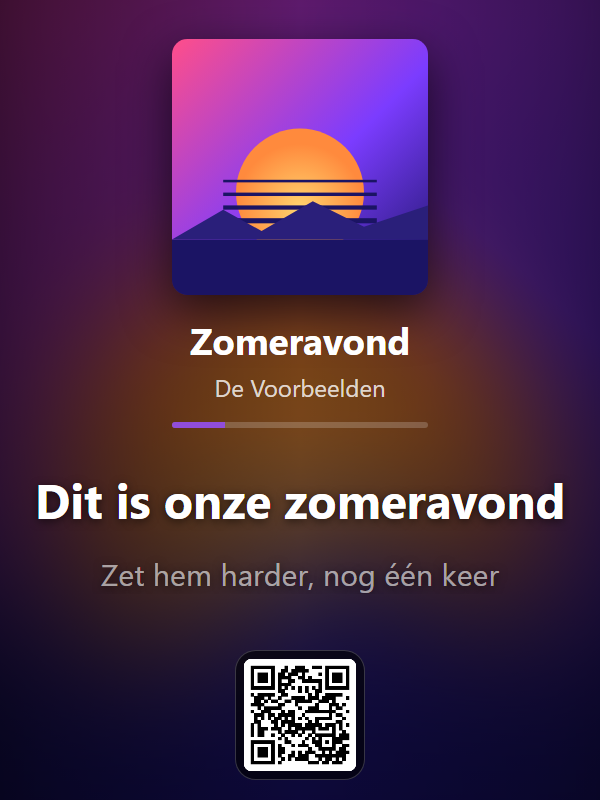
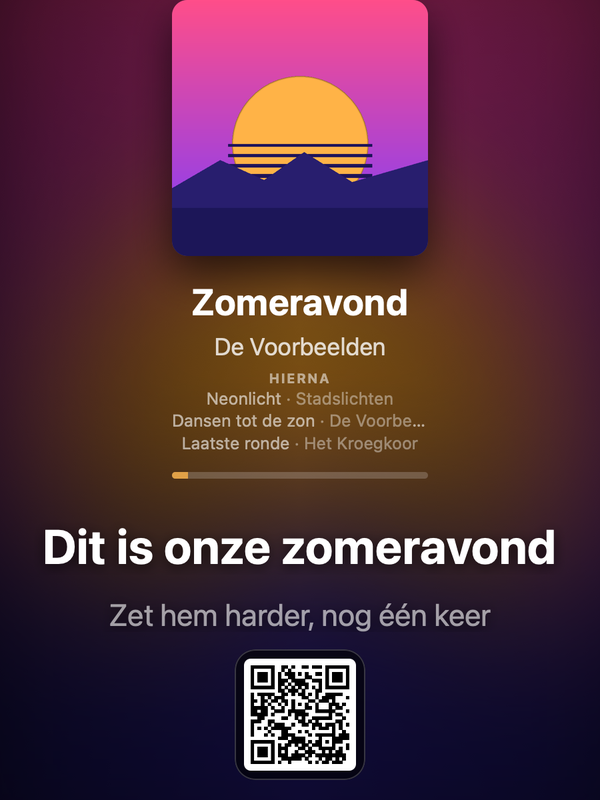
README: new screenshots and diagrams for 2.7.x
- web-wide / web-wide-explained: the screen as it is now, with "Hierna" and
  the Jam card; the explanation has four numbers (song, lyrics, up next, QR).
- hub-dashboard.png (new): screens, music, Jam and the party block.
- party-games.png (new): the quiz on the screen, the answer with the top 5 and
  the guest page on a phone.
- web-settings.png replaces web-settings-steps.png (Spotify is linked at the
  Hub now, not on the screen).
- web-card.png: the narrow Home Assistant card.
- overview.svg: one Hub in the middle instead of three separate sources.
- tv-install.svg: step 5 is "connect to the Hub", not pasting a Jam link.

Screenshots are the real screen and dashboard with a fictional song and an
example network address. The GitBook and website jpg copies are updated too.
README text: Mac app next to Windows, links to the newest release.

diff --git a/README.md b/README.md
@@ -50,13 +50,14 @@ Voor je **Android TV**, je **PC**, een **Raspberry Pi** en je **Home Assistant**
 
 ## ✨ Wat het doet
 
-<img src="docs/images/web-wide-explained.png" alt="Uitleg van het scherm: 1 wat er speelt, 2 de songtekst, 3 de QR-code" width="860">
+<img src="docs/images/web-wide-explained.png" alt="Uitleg van het scherm: 1 wat er speelt, 2 de songtekst, 3 de komende nummers, 4 de QR-code" width="860">
 
 | | |
 |---|---|
-| **1. Wat er speelt** | De hoes, titel, artiest en voortgang. De hoes ligt wazig over de hele achtergrond en de balk krijgt de kleur van de hoes. Staat de muziek op pauze, dan wordt het nummer gedimd. Daaronder de **komende 1, 3 of 5 nummers** uit de wachtrij van je Spotify-account. |
+| **1. Wat er speelt** | De hoes, titel, artiest en voortgang. De hoes ligt wazig over de hele achtergrond en de balk krijgt de kleur van de hoes. Staat de muziek op pauze, dan wordt het nummer gedimd. |
 | **2. Songtekst** | De regel die gezongen wordt staat groot in het midden en loopt in de maat mee. De teksten komen van [lrclib.net](https://lrclib.net): gratis en zonder account. |
-| **3. QR-code** | Vrienden scannen de code met hun camera en zetten hun eigen nummers in de Jam-wachtrij. Staan de feestspellen aan, dan leidt de code naar de **gastenpagina**: Jam, 👎 Skip-stemmen en 🎤 Raad het nummer in één. |
+| **3. Hierna** | De **komende 1, 3 of 5 nummers** uit de wachtrij van je Spotify-account; hoeveel kies je in het Hub-dashboard. |
+| **4. QR-code** | Vrienden scannen de code met hun camera en zetten hun eigen nummers in de Jam-wachtrij. Staan de feestspellen aan, dan leidt de code naar de **gastenpagina**: Jam, 👎 Skip-stemmen en 🎤 Raad het nummer in één. |
 
 Daarnaast zet je vanuit het **Hub-dashboard** meldingen, een pauze-aftelklok en een QR-code voor je gasten-wifi op
 al je schermen tegelijk.
@@ -80,24 +81,24 @@ Alle versies en downloads vind je bij [Releases](../../releases).
 
 ## 🧭 Hoe het in elkaar zit
 
-<img src="docs/images/overview.svg" alt="Drie bronnen (Android TV, PC, Home Assistant) leveren hetzelfde scherm" width="860">
+<img src="docs/images/overview.svg" alt="De Hub in het midden: hij leest je Spotify-account en stuurt alle schermen aan (Android TV, PC, Raspberry Pi, Home Assistant); jij bedient hem via het dashboard, gasten via de gastenpagina" width="860">
 
 De **Hub** is het hart: een klein programma op je PC of Raspberry Pi met een admin-dashboard op poort **8770**. Daar
 koppel je één keer je Spotify-account en je Jam-link, en alle schermen in huis volgen dat.
 
-| | 💻 PC (Windows) | 🍓 Raspberry Pi | 📺 Android TV | 🏠 Home Assistant |
+| | 💻 PC (Windows of Mac) | 🍓 Raspberry Pi | 📺 Android TV | 🏠 Home Assistant |
 |---|---|---|---|---|
 | **Rol** | Scherm **en** Hub | Scherm en/of Hub | Scherm | Scherm (kaart) |
 | **Toont** | Je Spotify-account, via de Hub | Je Spotify-account, via de Hub | Wat er op de tv speelt, of het account van de Hub | Elke `media_player`, of het account van de Hub |
-| **Nodig** | `SpotiParty-Setup-2.7.0.exe` | Raspberry Pi OS (64-bit) met desktop | ADB en een PC om te bouwen | Home Assistant, liefst met HACS |
-| **Updates** | Vanzelf (vanaf 2.7.0) | `sudo ./pi/install.sh` opnieuw | Opnieuw bouwen en installeren | Via HACS |
+| **Nodig** | `SpotiParty-Setup-<versie>.exe`, of de `.dmg` op een Mac met Apple silicon | Raspberry Pi OS (64-bit) met desktop | ADB en een PC om te bouwen | Home Assistant, liefst met HACS |
+| **Updates** | Vanzelf (Windows vanaf 2.7.0, Mac vanaf 2.7.1) | `sudo ./pi/install.sh` opnieuw | Opnieuw bouwen en installeren | Via HACS |
 | **Tijd** | ± 5 min | ± 10 min | ± 20 min | ± 5 min |
 
 ---
 
 ## 🚀 Snel aan de slag
 
-1. **Installeer de Hub.** Het makkelijkst met de Windows-app (zie [Webapp op de PC](#-webapp-op-de-pc)) of op een
+1. **Installeer de Hub.** Het makkelijkst met de Windows- of Mac-app (zie [Webapp op de PC](#-webapp-op-de-pc)) of op een
    [Raspberry Pi](#-raspberry-pi). Het venster toont het adres van het dashboard en de **PIN**.
 2. **Open het dashboard** op `http://<adres-van-die-pc>:8770`, ook op je telefoon, en vul de PIN in.
 3. **Koppel Spotify** bij **🎵 Muziek bedienen** (zie [Spotify koppelen aan de Hub](#-spotify-koppelen-aan-de-hub)).
@@ -111,6 +112,8 @@ koppel je één keer je Spotify-account en je Jam-link, en alle schermen in huis
 
 De desktop-app en de Raspberry Pi starten de Hub vanzelf. Open daarna `http://<adres-van-die-computer>:8770` en vul de
 PIN in. Er draait één Hub per netwerk: start je de app op een tweede pc, dan wordt die een scherm van de eerste Hub.
+
+<img src="docs/images/hub-dashboard.png" alt="Het Hub-dashboard: vier schermen online, Muziek bedienen, de Jam-link met QR-code en het Feest-blok met Skip-stemmen en Raad het nummer" width="860">
 
 | Onderdeel in het dashboard | Wat het doet |
 |---|---|
@@ -165,8 +168,10 @@ Spotify vraagt dit om te weten welke app je login gebruikt.
 
 ## 🎉 Feestspellen
 
-Alle drie stel je in bij **🎉 Feest** in het Hub-dashboard. Ze werken op de Windows-app, de Android TV-app, de
-Raspberry Pi en de Home Assistant-kaart.
+Alle drie stel je in bij **🎉 Feest** in het Hub-dashboard. Ze werken op de Windows- en Mac-app, de Android TV-app,
+de Raspberry Pi en de Home Assistant-kaart.
+
+<img src="docs/images/party-games.png" alt="Raad het nummer: op het scherm een aftelklok en 2 van 3 Skip-stemmen, daarna het antwoord met de top 5; op de telefoon de gastenpagina met Jam, Skip en het raadvak" width="860">
 
 | | |
 |---|---|
@@ -187,11 +192,11 @@ of de quiz aan, dan leidt de QR-code op de schermen daarheen.
 
 ### Windows-app (aanbevolen)
 
-Download bij de nieuwste [**Release (2.7.0)**](../../releases/latest):
+Download bij de nieuwste [**Release (2.7.1)**](../../releases/latest):
 
 | Bestand | Installeren |
 |---|---|
-| [`SpotiParty-Setup-2.7.0.exe`](../../releases/download/v2.7.0/SpotiParty-Setup-2.7.0.exe) | Voor **Windows 10/11** (64-bit). Dubbelklik en volg de stappen. SpotiParty komt in het Startmenu en, als je dat aanvinkt, op je bureaublad. Er zijn geen beheerdersrechten nodig. Verwijderen gaat via **Instellingen → Apps**. |
+| [`SpotiParty-Setup-2.7.1.exe`](../../releases/download/v2.7.1/SpotiParty-Setup-2.7.1.exe) | Voor **Windows 10/11** (64-bit). Dubbelklik en volg de stappen. SpotiParty komt in het Startmenu en, als je dat aanvinkt, op je bureaublad. Er zijn geen beheerdersrechten nodig. Verwijderen gaat via **Instellingen → Apps**. |
 
 SpotiParty opent het feestscherm in een eigen venster, zonder tabbladen, en start de Hub. Er verschijnt ook een klein
 venster met het adres en de **PIN** van het dashboard, en de knoppen **Scherm openen**, **Dashboard** en **Stoppen**.
@@ -203,7 +208,7 @@ Sluit je dat kleine venster, dan stopt SpotiParty.
 
 **Updaten gaat vanzelf** (vanaf 2.7.0). Staat er een nieuwe versie klaar, dan zie je dat in het SpotiParty-venster.
 De update wordt geïnstalleerd bij de volgende start, of meteen met **Nu bijwerken**; de schermen stoppen dan even.
-Van 2.6.0 of ouder naar 2.7.0 moet je één keer met de hand de nieuwe setup draaien.
+Kom je van 2.6.0 of ouder, draai dan één keer met de hand de nieuwe setup.
 
 ### Mac en Linux
 
@@ -231,7 +236,7 @@ netwerk kan erbij. Draait de Hub op een andere computer, vul dan het adres in bi
 
 ### Instellen
 
-<img src="docs/images/web-settings-steps.png" alt="Het instellingenscherm van SpotiParty" width="620">
+<img src="docs/images/web-settings.png" alt="Het instellingenscherm van een SpotiParty-scherm: Spotify via de Hub, de Jam-link en het adres van de Hub" width="420">
 
 Open de instellingen met **S**, of met de ⚙ die verschijnt zodra je de muis beweegt. Kies bij **Wat speelt er?**
 *Spotify via de Hub* of een *Home Assistant media player*. Spotify en de Jam-link stel je in het Hub-dashboard in;
@@ -273,7 +278,7 @@ Dit werkt op Android TV en Google TV met Android 8 of nieuwer, zoals Chromecast 
 TCL, Hisense en NVIDIA Shield. Je installeert twee apps: **SpotiParty** zelf en **Lyrics**, een hulpje zonder
 eigen scherm dat de songteksten opzoekt.
 
-<img src="docs/images/tv-install.svg" alt="Vijf stappen: debuggen aan, bouwen, installeren, toegang geven, Jam koppelen" width="860">
+<img src="docs/images/tv-install.svg" alt="Vijf stappen: debuggen aan, bouwen, installeren, toegang geven, openen en verbinden met de Hub" width="860">
 
 ### Stap 1: Debuggen aanzetten op de tv
 
@@ -384,7 +389,7 @@ kies type **Dashboard**, klik **Toevoegen** en daarna **Downloaden**.
 <details>
 <summary><b>Zonder HACS installeren</b></summary>
 
-1. Download [**`spotiparty-card.js`**](../../releases/download/v2.7.0/spotiparty-card.js) bij de
+1. Download [**`spotiparty-card.js`**](../../releases/latest/download/spotiparty-card.js) bij de
    [nieuwste release](../../releases/latest). Het is één bestand; het hele scherm zit erin.
 2. Zet het in **`/config/www/spotiparty/`**, met de add-on **File editor**, **Studio Code Server** of **Samba share**.
    Bestond de map `www` nog niet? Herstart Home Assistant dan één keer.
@@ -490,11 +495,12 @@ Stopt de Jam, dan werkt de oude link niet meer. Start dan een nieuwe Jam en plak
 | Spotify: *"geen toegang"* of *"forbidden"* | Zet het account onder **User Management** van je Spotify-app, en controleer of de eigenaar van de app (nog) Premium heeft. |
 | Tv en telefoon vinden de Hub niet | Windows: sta SpotiParty toe op **Privénetwerken** (Windows Defender Firewall). Op de tv: vul het adres van de Hub in via **Menu**. |
 | Gasten komen niet op de gastenpagina | Ze moeten op hetzelfde netwerk zitten als de Hub; een afgeschermd gasten-wifi blokkeert dat. |
-| De Windows-app werkt zich niet bij | Automatisch bijwerken kan pas vanaf 2.7.0. Kom je van 2.6.0 of ouder, installeer [`SpotiParty-Setup-2.7.0.exe`](../../releases/download/v2.7.0/SpotiParty-Setup-2.7.0.exe) dan één keer met de hand. |
+| De Windows-app werkt zich niet bij | Automatisch bijwerken kan pas vanaf 2.7.0. Kom je van 2.6.0 of ouder, installeer [`SpotiParty-Setup-2.7.1.exe`](../../releases/download/v2.7.1/SpotiParty-Setup-2.7.1.exe) dan één keer met de hand. |
+| De Mac-app werkt zich niet bij | Dat kan pas vanaf 2.7.1, en alleen als SpotiParty in **Apps** staat (niet vanaf de `.dmg` of uit Downloads). Sleep [`SpotiParty-macos-apple-silicon.dmg`](../../releases/latest/download/SpotiParty-macos-apple-silicon.dmg) één keer met de hand naar **Apps**. |
 | **Tv:** *"SpotiParty mag nog niet zien wat er speelt"* | Zet **Meldingstoegang** aan (stap 4 van de tv-installatie). |
 | **Tv:** geen songtekst, *"Installeer de Lyrics-add-on"* | Installeer de Lyrics-app, gebouwd op dezelfde PC als SpotiParty. |
 | *"Geen songtekst voor dit nummer"* | lrclib.net heeft dit nummer niet. Bij heel nieuwe of onbekende nummers komt dat voor. |
-| **HA:** HACS meldt *"no spotiparty-card.js"* | De release mist het kaartbestand. Release 2.7.0 heeft het wel: werk bij naar de nieuwste versie. |
+| **HA:** HACS meldt *"no spotiparty-card.js"* | De release mist het kaartbestand. De nieuwste release heeft het wel: werk bij naar de nieuwste versie. |
 | **HA:** na een update verandert er niets | Herlaad met **Ctrl+F5**, en kijk bij **Bronnen** dat er maar één `spotiparty-card.js` staat. |
 | **PC:** de app opent niets | Draait SpotiParty al, of gebruikt een ander programma poort 8769 of 8770? Sluit het andere programma of de oude SpotiParty. |
 
@@ -514,7 +520,7 @@ Meer oplossingen in [docs/hulp](docs/hulp/problemen-oplossen.md).
 - **De quiz** onthoudt namen en scores alleen in het geheugen van de Hub, tot je ze wist of de Hub stopt.
 - **lrclib.net** krijgt alleen de artiest, de titel, het album en de lengte van het nummer, om de songtekst op te
   zoeken.
-- **Updates:** de Windows-app vraagt bij GitHub op wat de nieuwste release is, en downloadt die daar.
+- **Updates:** de Windows- en Mac-app vragen bij GitHub op wat de nieuwste release is, en downloaden die daar.
 - **Koppeling intrekken:** ga naar [spotify.com/account/apps](https://www.spotify.com/account/apps/) en kies bij je
   SpotiParty-app **Toegang verwijderen**, of klik in het dashboard op **Spotify ontkoppelen**.
 
@@ -532,8 +538,9 @@ Meer oplossingen in [docs/hulp](docs/hulp/problemen-oplossen.md).
 | `tools/build_ha.py` | Maakt `dist/spotiparty-card.js` voor Home Assistant |
 | `docs/` | De volledige handleiding (GitBook) |
 
-Een release maak je door een tag als `v2.7.0` te pushen: de workflow **Desktop apps** bouwt dan de Windows-setup en
-zet die bij de release. Zet ook `dist/spotiparty-card.js` erbij (na `python tools/build_ha.py`): HACS installeert de
+Een release maak je door een tag als `v2.7.1` te pushen: de workflow **Desktop apps** bouwt dan de Windows-setup en
+de Mac-`.dmg`'s en zet die bij de release. Lokaal kan het ook, met `desktop/build-windows.ps1` en
+`desktop/build-macos.sh`. Zet ook `dist/spotiparty-card.js` erbij (na `python tools/build_ha.py`): HACS installeert de
 bijlagen van een release. Zie [docs/ontwikkelaars](docs/ontwikkelaars/release-maken.md).
 
 ---
